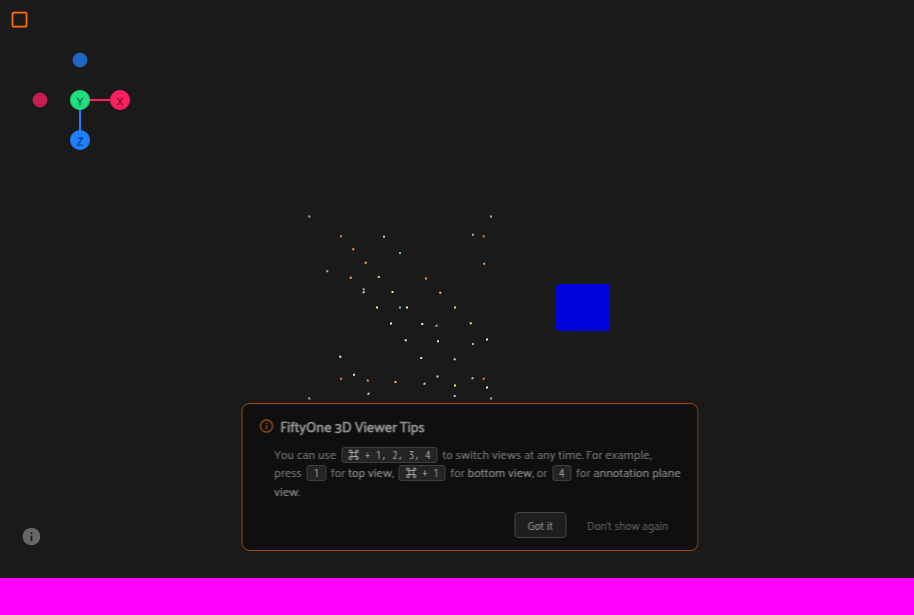
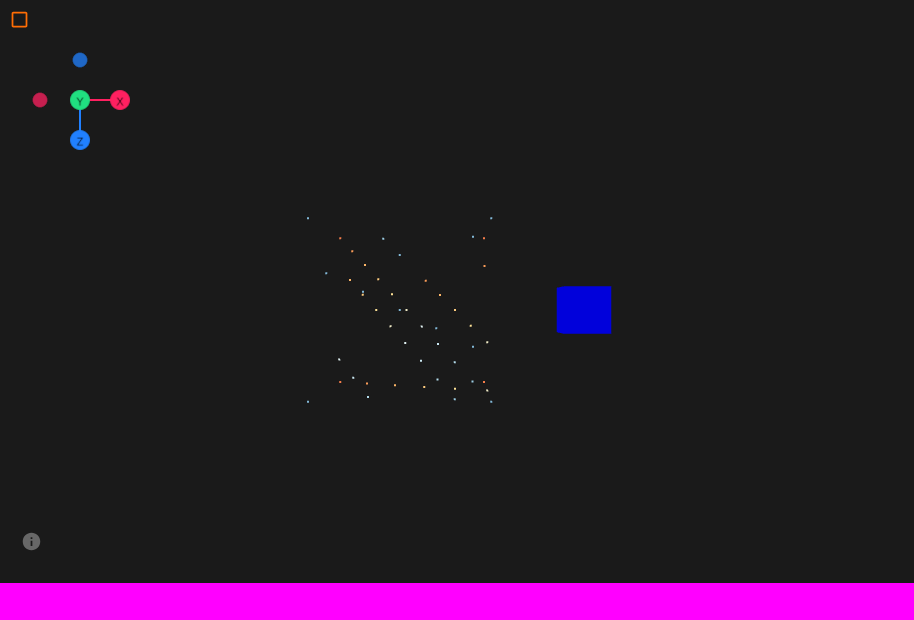
fix ply spec, use one timeout

diff --git a/e2e-pw/src/oss/specs/smoke-tests/quick-edit.spec.ts b/e2e-pw/src/oss/specs/smoke-tests/quick-edit.spec.ts
@@ -27,6 +27,54 @@ const detectionTestPoints = (({ x, y, width, height }: Box) => {
       resize: { x: 0.25, y: 0.5, width: 0.5, height: 0.25 },
       move: { x: 0.25, y: 0, height, width },
     },
+    {
+      name: "top-right",
+      cursor: "nesw",
+      x: x + width,
+      y,
+      resize: { x: 0.25, y: 0.5, width: 0.25, height: 0.25 },
+      move: { x: 0.5, y: 0, height, width },
+    },
+    {
+      name: "right",
+      cursor: "ew",
+      x: x + width,
+      y: y + height / 2,
+      resize: { x: 0.25, y: 0.25, width: 0.25, height: 0.5 },
+      move: { x: 0.5, y: 0.25, height, width },
+    },
+    {
+      name: "bottom-right",
+      cursor: "nwse",
+      x: x + width,
+      y: y + height,
+      resize: { x: 0.25, y: 0.25, width: 0.25, height: 0.25 },
+      move: { x: 0.5, y: 0.5, height, width },
+    },
+    {
+      name: "bottom",
+      cursor: "ns",
+      x: x + width / 2,
+      y: y + height,
+      resize: { x: 0.25, y: 0.25, width: 0.5, height: 0.25 },
+      move: { x: 0.25, y: 0.5, height, width },
+    },
+    {
+      name: "bottom-left",
+      cursor: "nesw",
+      x,
+      y: y + height,
+      resize: { x: 0.5, y: 0.25, width: 0.25, height: 0.25 },
+      move: { x: 0, y: 0.5, height, width },
+    },
+    {
+      name: "left",
+      cursor: "ew",
+      x,
+      y: y + height / 2,
+      resize: { x: 0.5, y: 0.25, width: 0.25, height: 0.5 },
+      move: { x: 0, y: 0.25, height, width },
+    },
   ];
 })(initialBoundingBox);
 

diff --git a/e2e-pw/playwright.config.ts b/e2e-pw/playwright.config.ts
@@ -10,10 +10,8 @@ dotenv.config({ path: process.env.CI ? ".env.ci" : ".env.dev" });
 export default defineConfig({
   testDir: "./src",
   testMatch: "**/?(*.)+(spec).ts?(x)",
-  timeout:
-    process.env.USE_DEV_BUILD?.toLocaleLowerCase() === "true"
-      ? Duration.Minutes(10)
-      : Duration.Seconds(60),
+  timeout: Duration.Minutes(5),
+
   /* Run tests in files in parallel */
   fullyParallel: true,
   /* Fail the build on CI if you accidentally left test.only in the source code. */

diff --git a/e2e-pw/src/oss/poms/modal/sample-canvas/index.ts b/e2e-pw/src/oss/poms/modal/sample-canvas/index.ts
@@ -159,10 +159,7 @@ class SampleCanvasAsserter {
     await expect(this.sampleCanvasPom.checkbox).toBeHidden();
     await this.sampleCanvasPom.tooltip.assert.isVisible(false);
     await expect(this.sampleCanvasPom.locator).toBeVisible();
-    await expect(this.sampleCanvasPom.locator).toHaveScreenshot(name, {
-      animations: "allow",
-      maxDiffPixelRatio: 0,
-    });
+    await expect(this.sampleCanvasPom.locator).toHaveScreenshot(name);
   }
 
   /**

diff --git a/e2e-pw/src/oss/specs/3d/fo3d-ply.spec.ts b/e2e-pw/src/oss/specs/3d/fo3d-ply.spec.ts
@@ -82,7 +82,9 @@ test.describe.serial("fo3d-ply", () => {
 
   test("PLY scene is rendered correctly", async ({ modal, grid, page }) => {
     const mask = getScreenshotMasks(modal);
-
+    await page.evaluate(() => {
+      localStorage.setItem("fo-3d-annotation-tips-dismissed", "true");
+    });
     await grid.openFirstSample();
     await modal.modalContainer.hover();
 